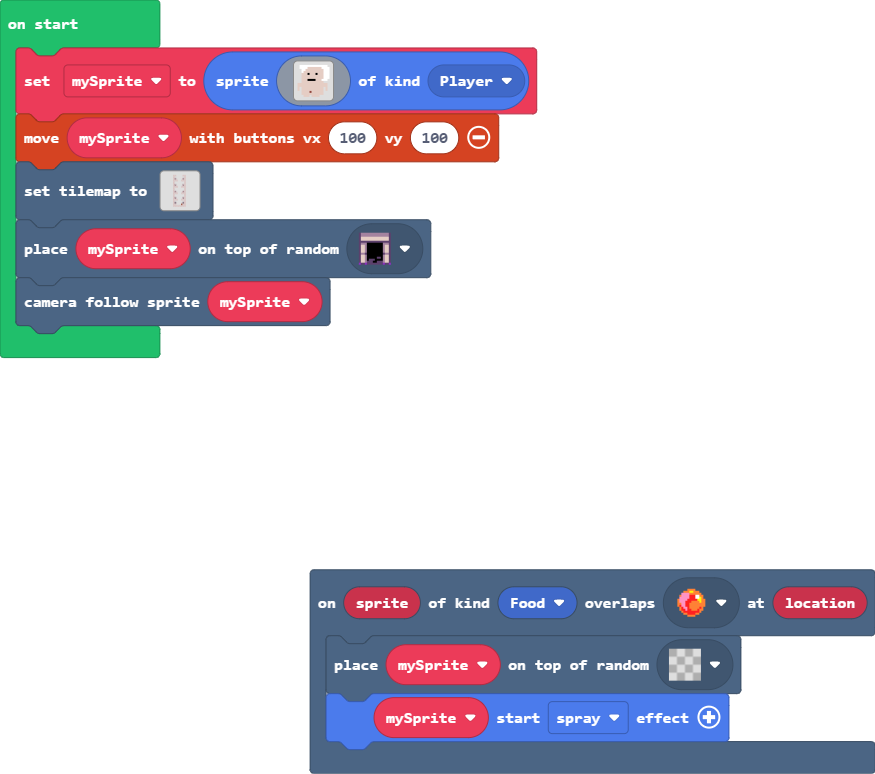
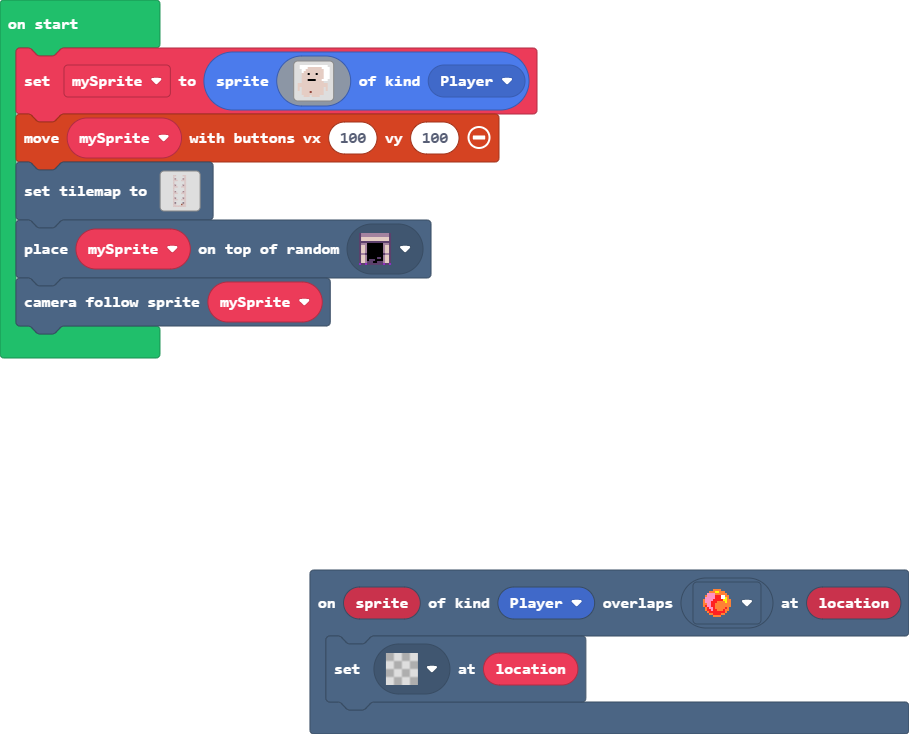
Update main.blocks, main.ts

Changed region(s): [[0.0, 0.0, 0.6171, 0.5095], [0.3394, 0.7193, 1.0, 1.0]]

diff --git a/main.ts b/main.ts
@@ -1,9 +1,7 @@
-scene.onOverlapTile(SpriteKind.Food, sprites.dungeon.collectibleRedCrystal, function (sprite, location) {
-    tiles.placeOnRandomTile(mySprite, myTiles.transparency16)
-    mySprite.startEffect(effects.spray)
+scene.onOverlapTile(SpriteKind.Player, sprites.dungeon.collectibleRedCrystal, function (sprite, location) {
+    tiles.setTileAt(location, myTiles.transparency16)
 })
-let mySprite: Sprite = null
-mySprite = sprites.create(img`
+let mySprite = sprites.create(img`
     . 1 1 1 1 1 1 1 1 1 1 1 1 1 1 . 
     . 1 1 1 1 d d d d d d d 1 1 1 1 
     . . 1 1 d d d d d d d d d 1 1 1 
